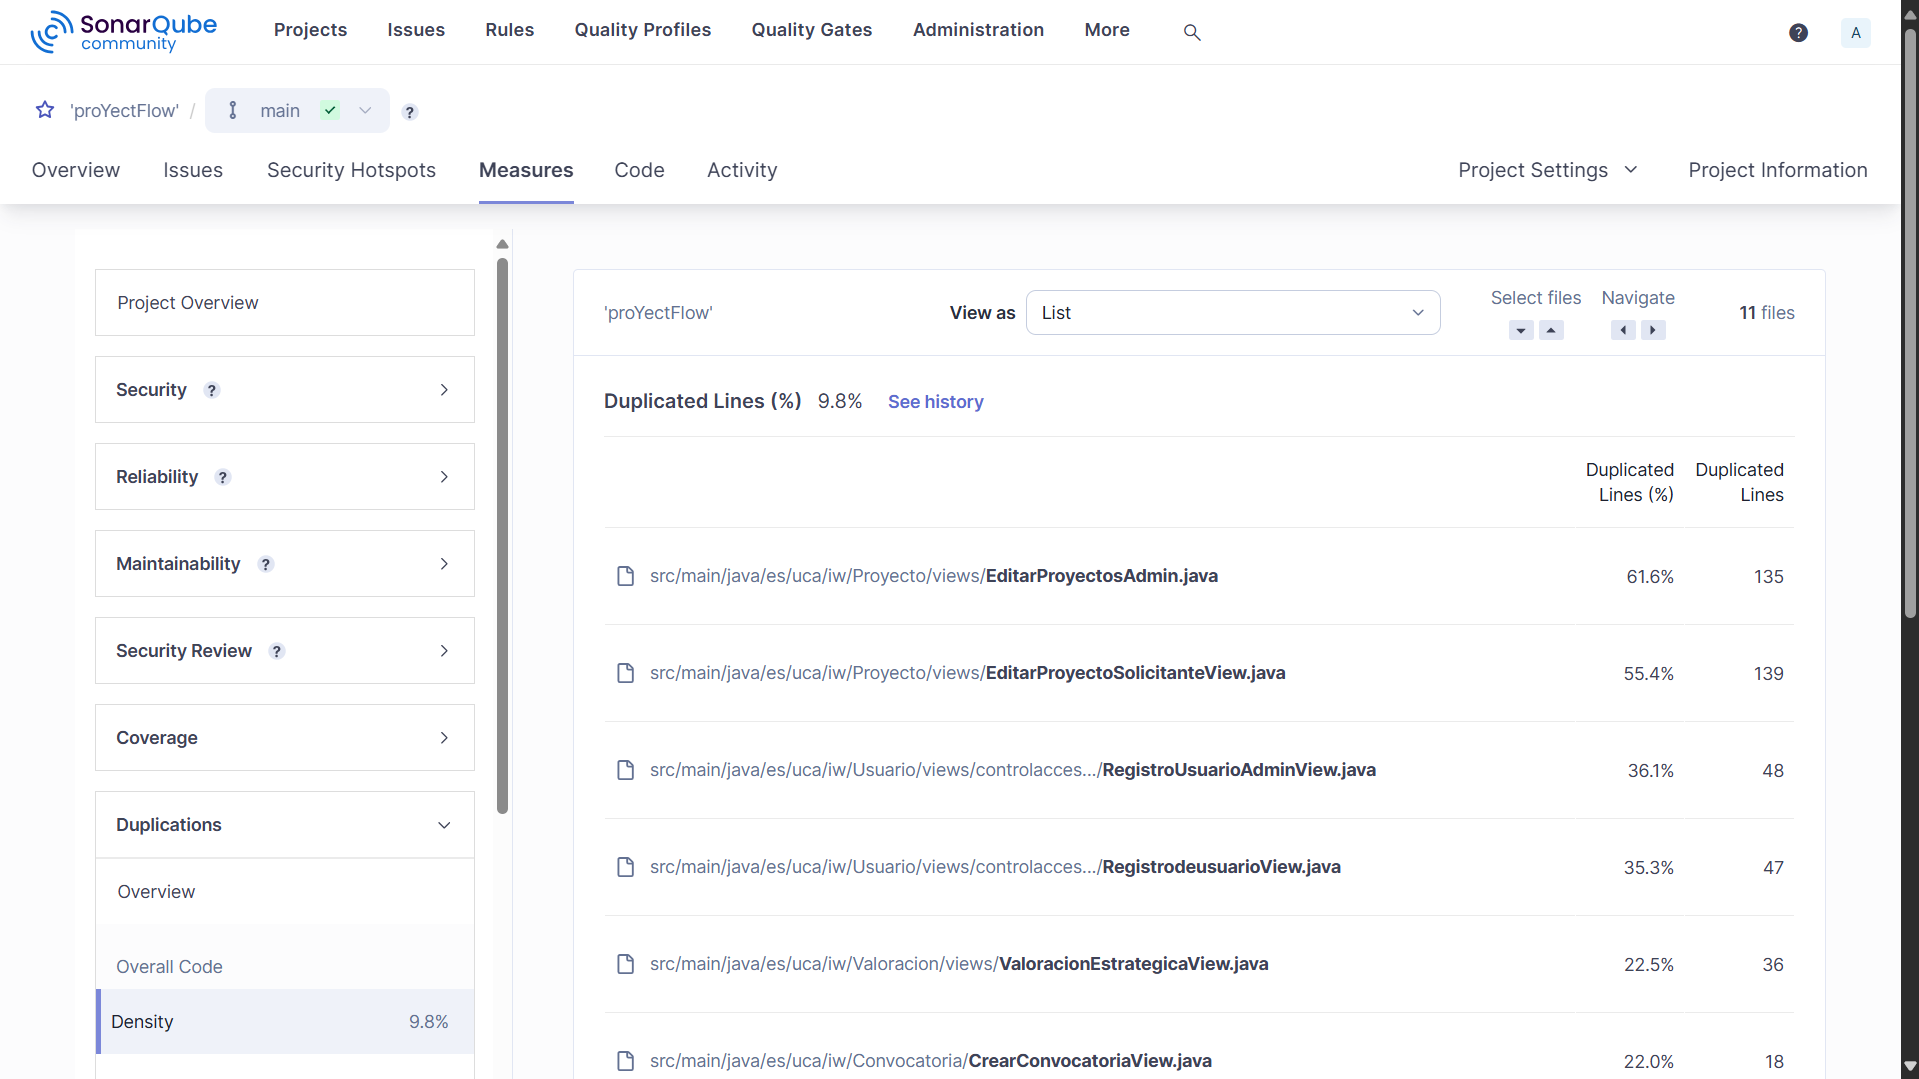
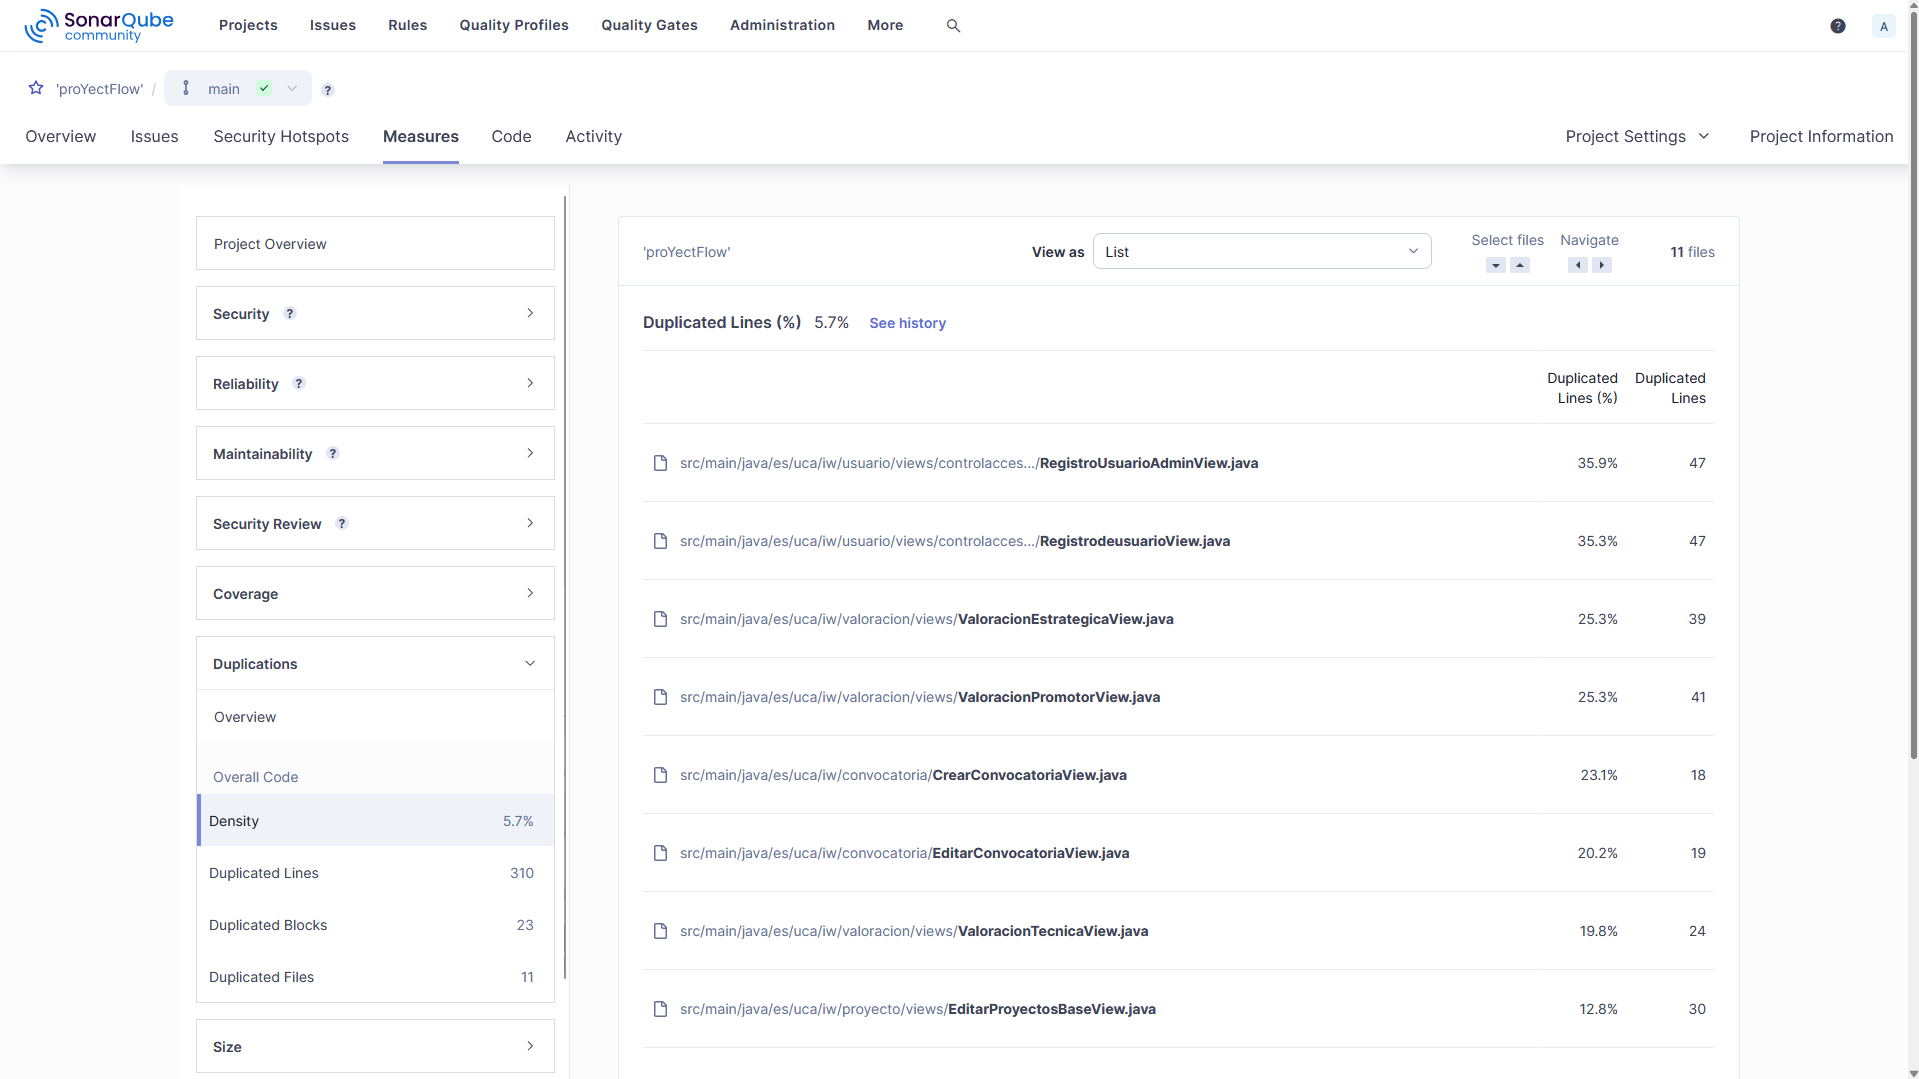
Solucionados más errores de maintainability

diff --git a/source/proYectFlow/src/main/java/es/uca/iw/proyecto/views/PriorizarProyectos.java b/source/proYectFlow/src/main/java/es/uca/iw/proyecto/views/PriorizarProyectos.java
@@ -9,7 +9,9 @@ import com.vaadin.flow.component.dependency.Uses;
 import com.vaadin.flow.component.dialog.Dialog;
 import com.vaadin.flow.component.grid.Grid;
 import com.vaadin.flow.component.grid.GridVariant;
-import com.vaadin.flow.component.html.*;
+import com.vaadin.flow.component.html.Div;
+import com.vaadin.flow.component.html.H1;
+import com.vaadin.flow.component.html.H2;
 import com.vaadin.flow.component.icon.Icon;
 import com.vaadin.flow.component.notification.Notification;
 import com.vaadin.flow.component.orderedlayout.VerticalLayout;
@@ -20,10 +22,9 @@ import com.vaadin.flow.spring.data.VaadinSpringDataHelpers;
 import com.vaadin.flow.theme.lumo.LumoUtility;
 import es.uca.iw.convocatoria.Convocatoria;
 import es.uca.iw.convocatoria.ConvocatoriaService;
+import es.uca.iw.global.DownloadPdfComponent;
 import es.uca.iw.proyecto.Proyecto;
 import es.uca.iw.proyecto.ProyectoService;
-import es.uca.iw.global.DownloadPdfComponent;
-import es.uca.iw.security.AuthenticatedUser;
 import jakarta.annotation.security.RolesAllowed;
 import jakarta.persistence.criteria.CriteriaBuilder;
 import jakarta.persistence.criteria.CriteriaQuery;
@@ -33,6 +34,7 @@ import org.springframework.data.domain.PageRequest;
 import org.springframework.data.jpa.domain.Specification;
 
 import java.io.IOException;
+
 @PageTitle("Priorizar Proyectos ")
 @Route("priorizarproyectos")
 @Menu(order = 5, icon = "line-awesome/svg/archive-solid.svg")
@@ -40,15 +42,12 @@ import java.io.IOException;
 @RolesAllowed("ROLE_CIO")
 
 public class PriorizarProyectos extends Div {
-    static AuthenticatedUser user;
-    private final ProyectoService proyectoService;
-    private Filters filters;
-    private final ConvocatoriaService convocatoriaService;
     final Convocatoria convocatoria;
-    static final String VISIBLE = "visible";
+    private final ProyectoService proyectoService;
+    private final ConvocatoriaService convocatoriaService;
+    private Filters filters;
 
-    public PriorizarProyectos(ProyectoService proyectoService, AuthenticatedUser user, ConvocatoriaService convocatoriaService) {
-        PriorizarProyectos.user = user;
+    public PriorizarProyectos(ProyectoService proyectoService, ConvocatoriaService convocatoriaService) {
         this.proyectoService = proyectoService;
         this.convocatoriaService = convocatoriaService;
         convocatoria = convocatoriaService.convocatoriaActual();
@@ -62,12 +61,12 @@ public class PriorizarProyectos extends Div {
         setSizeFull();
         addClassNames("proyectos-view");
         boolean hasInvalidStateProjects = proyectoService.list(PageRequest.of(0, Integer.MAX_VALUE)).stream()
-            .anyMatch(proyecto -> proyecto.getEstado() == Proyecto.Estado.AVALADO || proyecto.getEstado() == Proyecto.Estado.EVALUADO_TECNICAMENTE);
+                .anyMatch(proyecto -> proyecto.getEstado() == Proyecto.Estado.AVALADO || proyecto.getEstado() == Proyecto.Estado.EVALUADO_TECNICAMENTE);
 
         if (!convocatoriaService.convocatoriaActual().enPlazo()) {
             if (hasInvalidStateProjects)
                 add(new H1("Existen proyectos en estado avalado o evaluado técnicamente"));
-            else{
+            else {
                 filters = new Filters() {
                     @Override
                     public Predicate toPredicate(Root<Proyecto> root, CriteriaQuery<?> query, CriteriaBuilder criteriaBuilder) {
@@ -76,7 +75,7 @@ public class PriorizarProyectos extends Div {
                         return criteriaBuilder.and(estadoPredicate);
                     }
                 };
-                VerticalLayout layout = new VerticalLayout(h1Titulo,h2Titulo, filters, createGrid());
+                VerticalLayout layout = new VerticalLayout(h1Titulo, h2Titulo, filters, createGrid());
                 layout.setSizeFull();
                 layout.setPadding(false);
                 layout.setSpacing(false);
@@ -104,15 +103,13 @@ public class PriorizarProyectos extends Div {
                 .setSortable(true);
         grid.addColumn("estado").setAutoWidth(true);
 
-        grid.addComponentColumn(proyecto -> {
-            return DownloadPdfComponent.createDownloadButton("Memoria", () -> {
-                try {
-                    return proyectoService.getPdf(proyecto.getId());
-                } catch (IOException ex) {
-                    throw new RuntimeException("Error al obtener el PDF", ex);
-                }
-            });
-        }).setHeader("PDF").setAutoWidth(true);
+        grid.addComponentColumn(proyecto -> DownloadPdfComponent.createDownloadButton("Memoria", () -> {
+            try {
+                return proyectoService.getPdf(proyecto.getId());
+            } catch (IOException ex) {
+                throw new RuntimeException("Error al obtener el PDF", ex);
+            }
+        })).setHeader("PDF").setAutoWidth(true);
 
         grid.addComponentColumn(proyecto -> {
             Button evaluarButton = new Button("Desarrollar");
@@ -129,15 +126,15 @@ public class PriorizarProyectos extends Div {
                 confirmar.addThemeVariants(ButtonVariant.LUMO_PRIMARY);
                 confirmar.addClickShortcut(Key.ENTER);
                 confirmar.addClickListener(event -> {
-                    if (Boolean.TRUE.equals(realizar.getValue())){
+                    if (Boolean.TRUE.equals(realizar.getValue())) {
                         //Si da el dinero
-                        if (convocatoria.getPresupuestorestante().compareTo(proyecto.getCoste().subtract(proyecto.getAportacionInicial()))>=0){
+                        if (convocatoria.getPresupuestorestante().compareTo(proyecto.getCoste().subtract(proyecto.getAportacionInicial())) >= 0) {
                             convocatoria.setPresupuestorestante(convocatoria.getPresupuestorestante().subtract(proyecto.getCoste().subtract(proyecto.getAportacionInicial())));
                             convocatoriaService.guardar(convocatoria);
                             proyectoService.desarrollar(proyecto, realizar.getValue());
                             dialog.close();
                             Notification.show("Este proyecto se realizará");
-                        }else
+                        } else
                             Notification.show("El presupuesto disponible es insuficiente para desarrollar este proyecto");
                     }
                 });
@@ -150,7 +147,8 @@ public class PriorizarProyectos extends Div {
                 noDesarrollar.addThemeVariants(ButtonVariant.LUMO_ERROR);
                 noDesarrollar.addClickListener(event -> {
                     proyectoService.desarrollar(proyecto, false);
-                    dialog.close();});
+                    dialog.close();
+                });
                 dialog.add(mostrarPresupuesto, realizar);
                 dialog.getFooter().add(noDesarrollar, confirmar, cancelar);
             });

diff --git a/source/proYectFlow/src/main/java/es/uca/iw/proyecto/views/ProyectosView.java b/source/proYectFlow/src/main/java/es/uca/iw/proyecto/views/ProyectosView.java
@@ -22,9 +22,9 @@ import com.vaadin.flow.router.PageTitle;
 import com.vaadin.flow.router.Route;
 import com.vaadin.flow.spring.data.VaadinSpringDataHelpers;
 import com.vaadin.flow.theme.lumo.LumoUtility;
+import es.uca.iw.global.DownloadPdfComponent;
 import es.uca.iw.proyecto.Proyecto;
 import es.uca.iw.proyecto.ProyectoService;
-import es.uca.iw.global.DownloadPdfComponent;
 import jakarta.annotation.security.RolesAllowed;
 import jakarta.persistence.criteria.CriteriaBuilder;
 import jakarta.persistence.criteria.CriteriaQuery;
@@ -43,13 +43,12 @@ import java.util.Arrays;
 @Uses(Icon.class)
 @RolesAllowed("ROLE_ADMIN")
 public class ProyectosView extends Div {
-    private final ProyectoService proyectoService;
-    private Grid<Proyecto> grid;
-    private Filters filters;
-    static final String VISIBLE = "visible";
     static final String ARIALABEL = "aria-label";
     static final String NOMBRE = "nombre";
     static final String FECHA_SOLICITUD = "fechaSolicitud";
+    private final ProyectoService proyectoService;
+    private Grid<Proyecto> grid;
+    private Filters filters;
 
     public ProyectosView(ProyectoService proyectoService) {
         this.proyectoService = proyectoService;
@@ -70,7 +69,7 @@ public class ProyectosView extends Div {
         H1 h1Titulo = new H1("Proyectos");
         h1Titulo.addClassNames(LumoUtility.Margin.Bottom.NONE, LumoUtility.Margin.Top.XLARGE,
                 LumoUtility.FontSize.XXXLARGE, LumoUtility.Margin.Left.LARGE);
-        h1Titulo.getElement().setAttribute("ARIALABEL", "Título de la página");
+        h1Titulo.getElement().setAttribute(ARIALABEL, "Título de la página");
         return h1Titulo;
     }
 
@@ -113,7 +112,7 @@ public class ProyectosView extends Div {
         grid.addThemeVariants(GridVariant.LUMO_NO_BORDER);
         grid.addClassNames(LumoUtility.Border.TOP, LumoUtility.BorderColor.CONTRAST_10);
         grid.setAllRowsVisible(true);
-        grid.getElement().setAttribute("ARIALABEL", "Tabla de proyectos");
+        grid.getElement().setAttribute(ARIALABEL, "Tabla de proyectos");
         return grid;
     }
 
@@ -149,7 +148,7 @@ public class ProyectosView extends Div {
     private Button createEditButton(Proyecto proyecto) {
         Button evaluarButton = new Button("Editar");
         evaluarButton.addClickListener(e -> getUI().ifPresent(ui -> ui.navigate("EditarProyecto/" + (proyecto.getId()).toString())));
-        evaluarButton.getElement().setAttribute("ARIALABEL", "Editar proyecto");
+        evaluarButton.getElement().setAttribute(ARIALABEL, "Editar proyecto");
         return evaluarButton;
     }
 
@@ -200,7 +199,7 @@ public class ProyectosView extends Div {
                 estado.clear();
                 onSearch.run();
             });
-            resetBtn.getElement().setAttribute("ARIALABEL", "Borrar filtros");
+            resetBtn.getElement().setAttribute(ARIALABEL, "Borrar filtros");
             return resetBtn;
         }
 
@@ -208,7 +207,7 @@ public class ProyectosView extends Div {
             Button searchBtn = new Button("Buscar");
             searchBtn.addThemeVariants(ButtonVariant.LUMO_PRIMARY);
             searchBtn.addClickListener(e -> onSearch.run());
-            searchBtn.getElement().setAttribute("ARIALABEL", "Buscar proyectos");
+            searchBtn.getElement().setAttribute(ARIALABEL, "Buscar proyectos");
             return searchBtn;
         }
 

diff --git a/source/proYectFlow/src/main/java/es/uca/iw/usuario/views/GestionarUsuariosView.java b/source/proYectFlow/src/main/java/es/uca/iw/usuario/views/GestionarUsuariosView.java
@@ -19,16 +19,14 @@ import com.vaadin.flow.component.textfield.TextField;
 import com.vaadin.flow.router.Menu;
 import com.vaadin.flow.router.PageTitle;
 import com.vaadin.flow.router.Route;
-
-import es.uca.iw.proyecto.ProyectoService;
-import es.uca.iw.usuario.Usuario;
-import es.uca.iw.usuario.UsuarioService;
 import es.uca.iw.global.Roles;
+import es.uca.iw.proyecto.ProyectoService;
 import es.uca.iw.rest.Promotor;
 import es.uca.iw.rest.Respuesta;
+import es.uca.iw.usuario.Usuario;
+import es.uca.iw.usuario.UsuarioService;
 import jakarta.annotation.security.RolesAllowed;
 import jakarta.transaction.Transactional;
-import org.springframework.beans.factory.annotation.Autowired;
 import org.springframework.data.domain.Page;
 import org.springframework.data.domain.Pageable;
 import org.springframework.http.ResponseEntity;
@@ -48,7 +46,6 @@ public class GestionarUsuariosView extends Composite<VerticalLayout> {
     private final ProyectoService proyectoService;
     private final Grid<Usuario> grid;
 
-    @Autowired
     public GestionarUsuariosView(UsuarioService usuarioService, ProyectoService proyectoService) {
         this.restTemplate = new RestTemplate();
         this.usuarioService = usuarioService;
@@ -141,7 +138,8 @@ public class GestionarUsuariosView extends Composite<VerticalLayout> {
                         user.setCorreo(correoNuevoField.getValue());
                         if (!Objects.equals(passwordField.getValue(), passwordField.getEmptyValue()))
                             user.setContrasenna(usuarioService.encriptar(passwordField.getValue()));
-                        if (tipoComboBox.getValue() != tipoComboBox.getEmptyValue()) user.setTipo(tipoComboBox.getValue());
+                        if (tipoComboBox.getValue() != tipoComboBox.getEmptyValue())
+                            user.setTipo(tipoComboBox.getValue());
                         user.setActivo(activoCheckbox.getValue());
                         usuarioService.update(user);
                         Notification.show("Usuario guardado correctamente");
@@ -179,7 +177,7 @@ public class GestionarUsuariosView extends Composite<VerticalLayout> {
                     usuarioService.destituyePromotores();
                 } catch (Exception e) {
                     logger.severe("Error al destituir promotores: " + e.getMessage());
-                    throw new RuntimeException(e);
+                    throw e;
                 }
                 Respuesta apiResponse = response.getBody();
                 Notification.show("Respuesta de la API: " + response.getBody());

diff --git a/source/proYectFlow/src/test/java/es/uca/iw/proyecto/views/registrarproyecto/RegistroProyectoViewTest.java b/source/proYectFlow/src/test/java/es/uca/iw/proyecto/views/registrarproyecto/RegistroProyectoViewTest.java
@@ -1,20 +1,19 @@
 package es.uca.iw.proyecto.views.registrarproyecto;
 
-import com.vaadin.flow.component.upload.receivers.MemoryBuffer;
-import com.vaadin.flow.component.textfield.TextField;
 import com.vaadin.flow.component.combobox.ComboBox;
 import com.vaadin.flow.component.textfield.BigDecimalField;
 import com.vaadin.flow.component.textfield.EmailField;
+import com.vaadin.flow.component.textfield.TextField;
 import com.vaadin.flow.component.upload.Upload;
-
+import com.vaadin.flow.component.upload.receivers.MemoryBuffer;
 import com.vaadin.flow.data.binder.Binder;
 import es.uca.iw.convocatoria.ConvocatoriaService;
-import es.uca.iw.proyecto.ProyectoService;
-import es.uca.iw.usuario.Usuario;
-import es.uca.iw.proyecto.Proyecto;
-import es.uca.iw.usuario.UsuarioService;
 import es.uca.iw.global.Roles;
+import es.uca.iw.proyecto.Proyecto;
+import es.uca.iw.proyecto.ProyectoService;
 import es.uca.iw.security.AuthenticatedUser;
+import es.uca.iw.usuario.Usuario;
+import es.uca.iw.usuario.UsuarioService;
 import org.junit.jupiter.api.BeforeEach;
 import org.junit.jupiter.api.Test;
 
@@ -25,6 +24,7 @@ import java.util.Optional;
 
 import static org.mockito.ArgumentMatchers.any;
 import static org.mockito.Mockito.*;
+
 class RegistroProyectoViewTest {
 
     private UsuarioService usuarioService;
@@ -50,7 +50,7 @@ class RegistroProyectoViewTest {
         registroProyectoView.promotor = new ComboBox<Usuario>();
         registroProyectoView.upload = new Upload();
     }
-    
+
     @Test
     void onRegistroProyectoTest() {
         registroProyectoView.nombre.setValue("Test Project");
@@ -113,11 +113,8 @@ class RegistroProyectoViewTest {
                     registroProyectoView.alcance.getValue(), registroProyectoView.coste.getValue(), registroProyectoView.aportacionInicial.getValue(),
                     registroProyectoView.promotor.getValue(), usuarioService.getCorreo(registroProyectoView.emailField.getValue()), fechaSql, pdfBlob));
 
-            if (binder.validate().isOk()) {
-                if (proyectoService.registerProyecto(binder.getBean())) {
-                    binder.setBean(new Proyecto());
-                }
-            } 
+            if (binder.validate().isOk() && proyectoService.registerProyecto(binder.getBean()))
+                binder.setBean(new Proyecto());
         }
     }
 }

diff --git a/source/proYectFlow/src/main/java/es/uca/iw/global/views/AyudaView.java b/source/proYectFlow/src/main/java/es/uca/iw/global/views/AyudaView.java
@@ -13,21 +13,21 @@ import com.vaadin.flow.server.auth.AnonymousAllowed;
 @Route("Ayuda")
 @AnonymousAllowed
 public class AyudaView extends Composite<VerticalLayout> {
-    static final String ariaLabel = "aria-label";
+    static final String ARIA_LABEL = "aria-label";
 
     public AyudaView() {
         H1 title = new H1("Ayuda y preguntas frecuentes");
-        title.getElement().setAttribute(ariaLabel, "Título de la página de ayuda");
+        title.getElement().setAttribute(ARIA_LABEL, "Título de la página de ayuda");
 
         Accordion acordeon = new Accordion();
-        acordeon.getElement().setAttribute(ariaLabel, "Secciones de ayuda");
+        acordeon.getElement().setAttribute(ARIA_LABEL, "Secciones de ayuda");
 
         Span pasoIniciosesion1 = new Span("Mire si al registrarse escribió bien su correo y recibió el código");
         Span pasoIniciosesion2 = new Span("Acceda a /ActivarUsuario y escriba su correo y el código que se le envió");
         Span pasoIniciosesion3 = new Span("Si ni con la cuenta activa y usando su USUARIO y CONTRASEÑA puede iniciar sesión, pruebe a crear otra cuenta con otro nombre de usuario y mismo correo. Si no lo consigue póngase en contacto con: iwproyectflow@gmail.com");
 
         VerticalLayout problema1Layout = new VerticalLayout(pasoIniciosesion1, pasoIniciosesion2, pasoIniciosesion3);
-        problema1Layout.getElement().setAttribute(ariaLabel, "Pasos para resolver problemas al iniciar sesión");
+        problema1Layout.getElement().setAttribute(ARIA_LABEL, "Pasos para resolver problemas al iniciar sesión");
 
         acordeon.add("Problemas al iniciar sesión", problema1Layout);
 

diff --git a/source/proYectFlow/src/main/java/es/uca/iw/proyecto/views/ProyectosPromotorView.java b/source/proYectFlow/src/main/java/es/uca/iw/proyecto/views/ProyectosPromotorView.java
@@ -21,19 +21,12 @@ import org.springframework.data.jpa.domain.Specification;
 @Uses(Icon.class)
 @RolesAllowed("ROLE_PROMOTOR")
 public class ProyectosPromotorView extends VisualizarProyectos {
-
-    static AuthenticatedUser user;
-
     public ProyectosPromotorView(ProyectoService proyectoService, AuthenticatedUser user) {
         super(proyectoService, true);
-        ProyectosPromotorView.user = user;
-        Specification<Proyecto> filters = (root, query, criteriaBuilder) -> {
-            return criteriaBuilder.and(
-                    criteriaBuilder.equal(root.get("promotor"), user.get().orElse(null)),
-                    criteriaBuilder.equal(root.get("estado"), Proyecto.Estado.SOLICITADO)
-            );
-        };
-
+        Specification<Proyecto> filters = (root, query, criteriaBuilder) -> criteriaBuilder.and(
+                criteriaBuilder.equal(root.get("promotor"), user.get().orElse(null)),
+                criteriaBuilder.equal(root.get("estado"), Proyecto.Estado.SOLICITADO)
+        );
         inicializarVistaProyectos("Proyectos pendientes de ser avalados", filters);
     }
 

diff --git a/source/proYectFlow/src/main/java/es/uca/iw/usuario/UsuarioService.java b/source/proYectFlow/src/main/java/es/uca/iw/usuario/UsuarioService.java
@@ -66,12 +66,10 @@ public class UsuarioService {
 
     public boolean authenticate(String username, String password) {
         Usuario u = repository.findByUsername(username);
-        if (u != null && passwordEncoder.matches(password, u.getPassword()))  
-            return true;
-        return false;
+        return u != null && passwordEncoder.matches(password, u.getPassword());
     }
 
-    
+
     public boolean registerUser(Usuario user) {
         user.setContrasenna(passwordEncoder.encode(user.getPassword()));
         user.setTipo(Roles.SOLICITANTE);
@@ -109,7 +107,6 @@ public class UsuarioService {
     public Usuario getCorreo(String value) {
         return repository.findByCorreo(value);
     }
-
 
 
     @Transactional

diff --git a/source/proYectFlow/src/main/java/es/uca/iw/usuario/views/MenuUsuarioView.java b/source/proYectFlow/src/main/java/es/uca/iw/usuario/views/MenuUsuarioView.java
@@ -1,7 +1,5 @@
 package es.uca.iw.usuario.views;
 
-import com.vaadin.flow.component.HasComponents;
-import com.vaadin.flow.component.HasStyle;
 import com.vaadin.flow.component.html.H2;
 import com.vaadin.flow.component.html.Main;
 import com.vaadin.flow.component.html.OrderedList;
@@ -24,7 +22,7 @@ import java.util.stream.Collectors;
 @Route("menuUsuarioView")
 @Menu(order = 8, icon = "line-awesome/svg/border-all-solid.svg")
 @PermitAll
-public class MenuUsuarioView extends Main implements HasComponents, HasStyle {
+public class MenuUsuarioView extends Main {
     private OrderedList imageContainer;
 
     public MenuUsuarioView() {
